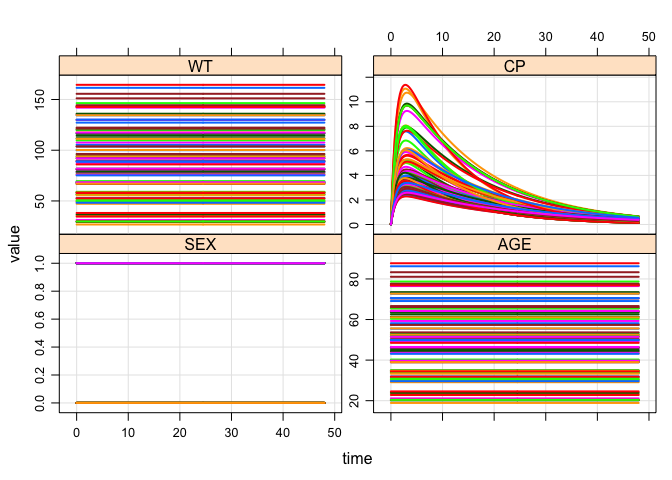
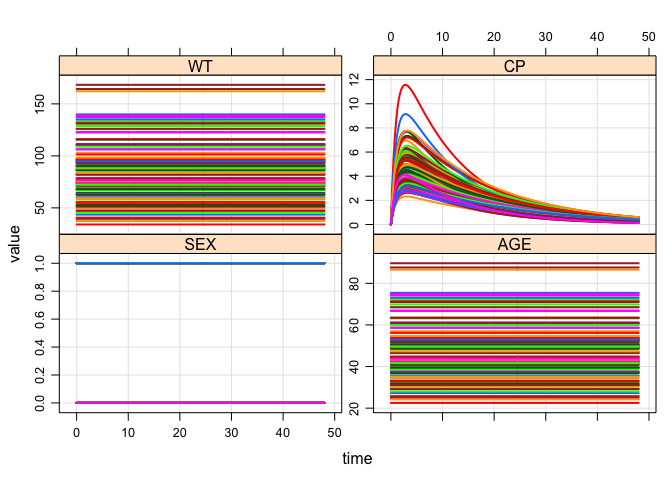
add covset2 vignette

diff --git a/misc_demo/covset2.md b/misc_demo/covset2.md
@@ -5,11 +5,12 @@ library(magrittr)
 library(ggplot2)
 ```
 
-See `$ENV` for covariate simulation from bounded parametric distributions
-=========================================================================
+See `$COVSET` for covariate simulation from bounded parametric distributions
+============================================================================
 
--   `a`, `d`, `f` are special formulae that work with `mutate_random` package
--   Create a formula like `z` or `b` using the mutate function to change columns using `dplyr::mutate`
+-   We specify covariates as random variables, potentially with lower and upper bounds
+-   We can evaluate an expression in the data with a formula using `expr` function
+-   All of these covariates get added to your `data_set` or `idata_set`
 -   We create sets of covariates (`covset()`) with these different formulae
 -   When we call `idata_set`, we can invoke a `covset` and those covariates get added
 -   The `covset` stuff (with formula parsing) is located here:
@@ -122,16 +123,16 @@ idata %>% mrgsolve:::mutate_random(cov2,envir=e)
     . # A tibble: 100 × 6
     .       ID STUDY      AGE     FLAG       WT   SEX
     .    <int> <dbl>    <dbl>    <dbl>    <dbl> <dbl>
-    . 1      1     1 53.02172 24.61528 71.75848     0
-    . 2      2     0 47.07363 39.90425 75.57813     1
-    . 3      3     1 62.51831 24.61528 73.40449     1
-    . 4      4     0 75.44599 39.90425 65.38125     1
-    . 5      5     1 52.45856 24.61528 62.42673     1
-    . 6      6     0 42.08841 39.90425 55.90931     0
-    . 7      7     1 45.88783 24.61528 71.18259     1
-    . 8      8     0 44.71220 39.90425 81.89608     1
-    . 9      9     1 61.53799 24.61528 50.61871     1
-    . 10    10     0 48.60039 39.90425 91.71884     1
+    . 1      1     1 54.11664 31.28761 59.58850     0
+    . 2      2     0 58.57101 36.40108 52.85154     1
+    . 3      3     1 43.57795 31.28761 61.68500     1
+    . 4      4     0 71.98845 36.40108 86.91161     0
+    . 5      5     1 66.65928 31.28761 73.53049     0
+    . 6      6     0 49.43970 36.40108 93.00608     1
+    . 7      7     1 28.13948 31.28761 99.35700     1
+    . 8      8     0 73.85588 36.40108 93.78655     0
+    . 9      9     1 52.20487 31.28761 87.59485     1
+    . 10    10     0 51.04082 36.40108 87.71596     1
     . # ... with 90 more rows
 
 Other ways to use `$ENV`
